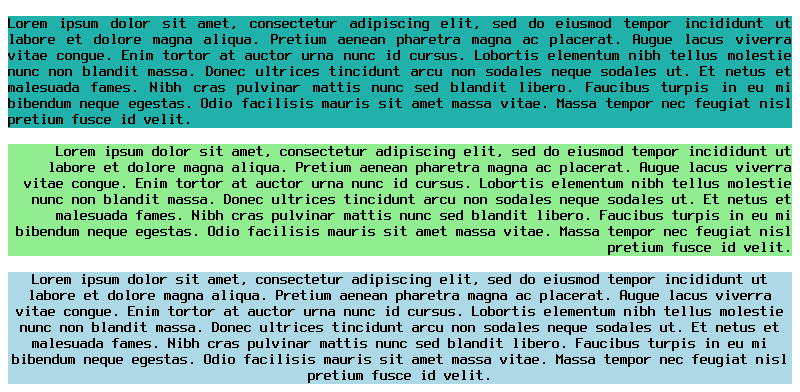
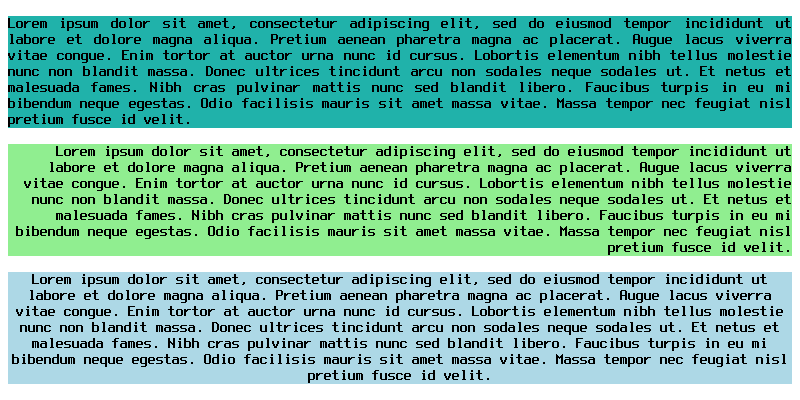
Fixed rendered document size calculating.
document::height() now returns minimum height. This was used in the
render_test.cpp to find the bitmap height. Most of tests were updated
to to match real document size.

Also added ACID1 test.

Changed region(s): [[0.0, 0.0306, 1.0, 0.9796]]

diff --git a/render/acid1.htm b/render/acid1.htm
@@ -1,0 +1,177 @@
+<!DOCTYPE HTML PUBLIC "-//W3C//DTD HTML 4.0//EN" "http://www.w3.org/TR/REC-html40/strict.dtd">
+<html>
+<head>
+  <title>
+    display/box/float/clear test
+  </title>
+  <style type="text/css">
+    /* last modified: 1 Dec 98 */
+
+    html {
+      font: 10px/1 Verdana, sans-serif;
+      background-color: blue;
+      color: white;
+    }
+
+    body {
+      margin: 1.5em;
+      border: .5em solid black;
+      padding: 0;
+      width: 48em;
+      background-color: white;
+    }
+
+    dl {
+      margin: 0;
+      border: 0;
+      padding: .5em;
+    }
+
+    dt {
+      background-color: rgb(204,0,0);
+      margin: 0;
+      padding: 1em;
+      width: 10.638%; /* refers to parent element's width of 47em. = 5em or 50px */
+      height: 28em;
+      border: .5em solid black;
+      float: left;
+    }
+
+    dd {
+      float: right;
+      margin: 0 0 0 1em;
+      border: 1em solid black;
+      padding: 1em;
+      width: 34em;
+      height: 27em;
+    }
+
+    ul {
+      margin: 0;
+      border: 0;
+      padding: 0;
+    }
+
+    li {
+      display: block; /* i.e., suppress marker */
+      color: black;
+      height: 9em;
+      width: 5em;
+      margin: 0;
+      border: .5em solid black;
+      padding: 1em;
+      float: left;
+      background-color: #FC0;
+    }
+
+    #bar {
+      background-color: black;
+      color: white;
+      width: 41.17%; /* = 14em */
+      border: 0;
+      margin: 0 1em;
+    }
+
+    #baz {
+      margin: 1em 0;
+      border: 0;
+      padding: 1em;
+      width: 10em;
+      height: 10em;
+      background-color: black;
+      color: white;
+    }
+
+    form {
+      margin: 0;
+      display: inline;
+    }
+
+    p {
+      margin: 0;
+    }
+
+    form p {
+      line-height: 1.9;
+    }
+
+    blockquote {
+      margin: 1em 1em 1em 2em;
+      border-width: 1em 1.5em 2em .5em;
+      border-style: solid;
+      border-color: black;
+      padding: 1em 0;
+      width: 5em;
+      height: 9em;
+      float: left;
+      background-color: #FC0;
+      color: black;
+    }
+
+    address {
+      font-style: normal;
+    }
+
+    h1 {
+      background-color: black;
+      color: white;
+      float: left;
+      margin: 1em 0;
+      border: 0;
+      padding: 1em;
+      width: 10em;
+      height: 10em;
+      font-weight: normal;
+      font-size: 1em;
+    }
+  </style>
+</head>
+<body>
+<dl>
+  <dt>
+    toggle
+  </dt>
+  <dd>
+    <ul>
+      <li>
+        the way
+      </li>
+      <li id="bar">
+        <p>
+          the world ends
+        </p>
+        <form action="./" method="get">
+          <p>
+            bang
+            <input type="radio" name="foo" value="off">
+          </p>
+          <p>
+            whimper
+            <input type="radio" name="foo2" value="on">
+          </p>
+        </form>
+      </li>
+      <li>
+        i grow old
+      </li>
+      <li id="baz">
+        pluot?
+      </li>
+    </ul>
+    <blockquote>
+      <address>
+        bar maids,
+      </address>
+    </blockquote>
+    <h1>
+      sing to me, erbarme dich
+    </h1>
+  </dd>
+</dl>
+<p style="color: black; font-size: 1em; line-height: 1.3em; clear: both">
+  This is a nonsensical document, but syntactically valid HTML 4.0. All 100%-conformant CSS1 agents should be able to render the document elements above this paragraph indistinguishably (to the pixel) from this
+  <a href="sec5526c.gif">reference rendering,</a>
+  (except font rasterization and form widgets). All discrepancies should be traceable to CSS1 implementation shortcomings. Once you have finished evaluating this test, you can return to the <A HREF="sec5526c.htm">parent page</A>.
+</p>
+</body>
+</html>

diff --git a/render/test27.htm b/render/test27.htm
@@ -1,0 +1,13 @@
+<html style="margin: 20px">
+<style>
+    div:hover
+    {
+        color: yellow;
+    }
+</style>
+    <body>
+        <div style="padding: 10px; background-color: darkred; margin: 20px;">
+            hello
+        </div>
+    </body>
+</html>

diff --git a/render_test.cpp b/render_test.cpp
@@ -59,8 +59,7 @@ Bitmap draw(document::ptr doc, int width, int height)
 
 	doc->draw((uint_ptr)&bmp, 0, 0, &clip);
 
-	position pos = bmp.find_picture();
-	bmp.resize(min(pos.right() + 8, width), min(pos.bottom() + 8, height));
+	bmp.resize(width, height);
 
 	return bmp;
 }
@@ -74,7 +73,7 @@ void test(string filename)
 
 	auto doc = document::createFromString(html.c_str(), &container);
 	doc->render(width);
-	Bitmap bmp = draw(doc, width, height);
+	Bitmap bmp = draw(doc, doc->width(), doc->height());
 
 	Bitmap good(filename + ".png");
 	if (bmp != good)
